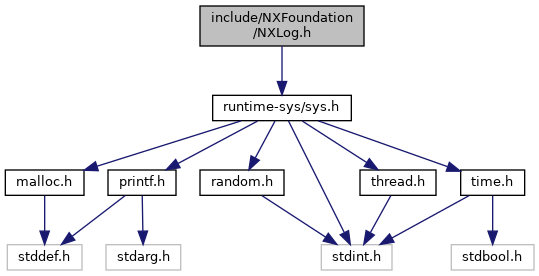
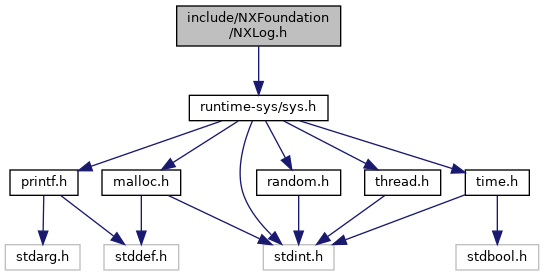
deploy: e6864764bf45842ac2ef645552a17b8dc5ddfefa

diff --git a/runtime-sys_2malloc_8h_source.html b/runtime-sys_2malloc_8h_source.html
@@ -55,7 +55,7 @@ $(function() {
 <div class="title">malloc.h</div>  </div>
 </div><!--header-->
 <div class="contents">
-<div class="fragment"><div class="line"><a name="l00001"></a><span class="lineno">    1</span>&#160;</div><div class="line"><a name="l00007"></a><span class="lineno">    7</span>&#160;<span class="preprocessor">#pragma once</span></div><div class="line"><a name="l00008"></a><span class="lineno">    8</span>&#160;<span class="preprocessor">#include &lt;stddef.h&gt;</span></div><div class="line"><a name="l00009"></a><span class="lineno">    9</span>&#160;</div><div class="line"><a name="l00015"></a><span class="lineno">   15</span>&#160;<span class="keyword">extern</span> <span class="keywordtype">void</span> *sys_malloc(<span class="keywordtype">size_t</span> size);</div><div class="line"><a name="l00016"></a><span class="lineno">   16</span>&#160;</div><div class="line"><a name="l00021"></a><span class="lineno">   21</span>&#160;<span class="keyword">extern</span> <span class="keywordtype">void</span> sys_free(<span class="keywordtype">void</span> *ptr);</div></div><!-- fragment --></div><!-- contents -->
+<div class="fragment"><div class="line"><a name="l00001"></a><span class="lineno">    1</span>&#160;</div><div class="line"><a name="l00007"></a><span class="lineno">    7</span>&#160;<span class="preprocessor">#pragma once</span></div><div class="line"><a name="l00008"></a><span class="lineno">    8</span>&#160;<span class="preprocessor">#include &lt;stddef.h&gt;</span></div><div class="line"><a name="l00009"></a><span class="lineno">    9</span>&#160;<span class="preprocessor">#include &lt;stdint.h&gt;</span></div><div class="line"><a name="l00010"></a><span class="lineno">   10</span>&#160;</div><div class="line"><a name="l00016"></a><span class="lineno">   16</span>&#160;<span class="keyword">extern</span> <span class="keywordtype">void</span> *sys_malloc(<span class="keywordtype">size_t</span> size);</div><div class="line"><a name="l00017"></a><span class="lineno">   17</span>&#160;</div><div class="line"><a name="l00022"></a><span class="lineno">   22</span>&#160;<span class="keyword">extern</span> <span class="keywordtype">void</span> sys_free(<span class="keywordtype">void</span> *ptr);</div><div class="line"><a name="l00023"></a><span class="lineno">   23</span>&#160;</div><div class="line"><a name="l00031"></a><span class="lineno">   31</span>&#160;<span class="keyword">extern</span> <span class="keywordtype">void</span> *sys_memset(<span class="keywordtype">void</span> *ptr, uint8_t value, <span class="keywordtype">size_t</span> size);</div><div class="line"><a name="l00032"></a><span class="lineno">   32</span>&#160;</div><div class="line"><a name="l00040"></a><span class="lineno">   40</span>&#160;<span class="keyword">extern</span> <span class="keywordtype">void</span> *sys_memcpy(<span class="keywordtype">void</span> *dest, <span class="keyword">const</span> <span class="keywordtype">void</span> *src, <span class="keywordtype">size_t</span> size);</div></div><!-- fragment --></div><!-- contents -->
 <!-- HTML footer for doxygen 1.8.13-->
 <!-- start footer part -->
 <!--BEGIN GENERATE_TREEVIEW-->

diff --git a/assert_8h.html b/assert_8h.html
@@ -66,12 +66,12 @@ Include dependency graph for assert.h:</div>
 <div class="dyncontent">
 <div class="center"><img src="assert_8h__incl.png" border="0" usemap="#include_2runtime-gcc_2objc_2assert_8h" alt=""/></div>
 <map name="include_2runtime-gcc_2objc_2assert_8h" id="include_2runtime-gcc_2objc_2assert_8h">
-<area shape="rect" id="node2" href="sys_8h.html" title="Defines system management functions. " alt="" coords="213,95,351,121"/>
-<area shape="rect" id="node3" href="runtime-sys_2malloc_8h_source.html" title="malloc.h" alt="" coords="5,169,84,196"/>
-<area shape="rect" id="node5" href="printf_8h.html" title="Defines formatted print output functions. " alt="" coords="108,169,176,196"/>
-<area shape="rect" id="node7" href="random_8h.html" title="Defines random number generation functions. " alt="" coords="200,169,284,196"/>
-<area shape="rect" id="node9" href="thread_8h.html" title="Defines thread management functions. " alt="" coords="360,169,436,196"/>
-<area shape="rect" id="node10" href="time_8h.html" title="Defines system time management functions. " alt="" coords="461,169,525,196"/>
+<area shape="rect" id="node2" href="sys_8h.html" title="Defines system management functions. " alt="" coords="189,95,328,121"/>
+<area shape="rect" id="node3" href="runtime-sys_2malloc_8h_source.html" title="malloc.h" alt="" coords="102,169,181,196"/>
+<area shape="rect" id="node6" href="printf_8h.html" title="Defines formatted print output functions. " alt="" coords="10,169,78,196"/>
+<area shape="rect" id="node8" href="random_8h.html" title="Defines random number generation functions. " alt="" coords="257,169,341,196"/>
+<area shape="rect" id="node9" href="thread_8h.html" title="Defines thread management functions. " alt="" coords="365,169,441,196"/>
+<area shape="rect" id="node10" href="time_8h.html" title="Defines system time management functions. " alt="" coords="465,169,529,196"/>
 </map>
 </div>
 </div><div class="textblock"><div class="dynheader">

diff --git a/NXLog_8h.html b/NXLog_8h.html
@@ -66,12 +66,12 @@ Include dependency graph for NXLog.h:</div>
 <div class="dyncontent">
 <div class="center"><img src="NXLog_8h__incl.png" border="0" usemap="#include_2NXFoundation_2NXLog_8h" alt=""/></div>
 <map name="include_2NXFoundation_2NXLog_8h" id="include_2NXFoundation_2NXLog_8h">
-<area shape="rect" id="node2" href="sys_8h.html" title="Defines system management functions. " alt="" coords="213,95,351,121"/>
-<area shape="rect" id="node3" href="runtime-sys_2malloc_8h_source.html" title="malloc.h" alt="" coords="5,169,84,196"/>
-<area shape="rect" id="node5" href="printf_8h.html" title="Defines formatted print output functions. " alt="" coords="108,169,176,196"/>
-<area shape="rect" id="node7" href="random_8h.html" title="Defines random number generation functions. " alt="" coords="200,169,284,196"/>
-<area shape="rect" id="node9" href="thread_8h.html" title="Defines thread management functions. " alt="" coords="360,169,436,196"/>
-<area shape="rect" id="node10" href="time_8h.html" title="Defines system time management functions. " alt="" coords="461,169,525,196"/>
+<area shape="rect" id="node2" href="sys_8h.html" title="Defines system management functions. " alt="" coords="189,95,328,121"/>
+<area shape="rect" id="node3" href="runtime-sys_2malloc_8h_source.html" title="malloc.h" alt="" coords="102,169,181,196"/>
+<area shape="rect" id="node6" href="printf_8h.html" title="Defines formatted print output functions. " alt="" coords="10,169,78,196"/>
+<area shape="rect" id="node8" href="random_8h.html" title="Defines random number generation functions. " alt="" coords="257,169,341,196"/>
+<area shape="rect" id="node9" href="thread_8h.html" title="Defines thread management functions. " alt="" coords="365,169,441,196"/>
+<area shape="rect" id="node10" href="time_8h.html" title="Defines system time management functions. " alt="" coords="465,169,529,196"/>
 </map>
 </div>
 </div>

diff --git a/sys_8h.html b/sys_8h.html
@@ -71,11 +71,11 @@ Include dependency graph for sys.h:</div>
 <div class="dyncontent">
 <div class="center"><img src="sys_8h__incl.png" border="0" usemap="#include_2runtime-sys_2sys_8h" alt=""/></div>
 <map name="include_2runtime-sys_2sys_8h" id="include_2runtime-sys_2sys_8h">
-<area shape="rect" id="node2" href="runtime-sys_2malloc_8h_source.html" title="malloc.h" alt="" coords="5,95,84,121"/>
-<area shape="rect" id="node4" href="printf_8h.html" title="Defines formatted print output functions. " alt="" coords="108,95,176,121"/>
-<area shape="rect" id="node6" href="random_8h.html" title="Defines random number generation functions. " alt="" coords="200,95,284,121"/>
-<area shape="rect" id="node8" href="thread_8h.html" title="Defines thread management functions. " alt="" coords="360,95,436,121"/>
-<area shape="rect" id="node9" href="time_8h.html" title="Defines system time management functions. " alt="" coords="461,95,525,121"/>
+<area shape="rect" id="node2" href="runtime-sys_2malloc_8h_source.html" title="malloc.h" alt="" coords="102,95,181,121"/>
+<area shape="rect" id="node5" href="printf_8h.html" title="Defines formatted print output functions. " alt="" coords="10,95,78,121"/>
+<area shape="rect" id="node7" href="random_8h.html" title="Defines random number generation functions. " alt="" coords="257,95,341,121"/>
+<area shape="rect" id="node8" href="thread_8h.html" title="Defines thread management functions. " alt="" coords="365,95,441,121"/>
+<area shape="rect" id="node9" href="time_8h.html" title="Defines system time management functions. " alt="" coords="465,95,529,121"/>
 </map>
 </div>
 </div><div class="textblock"><div class="dynheader">
